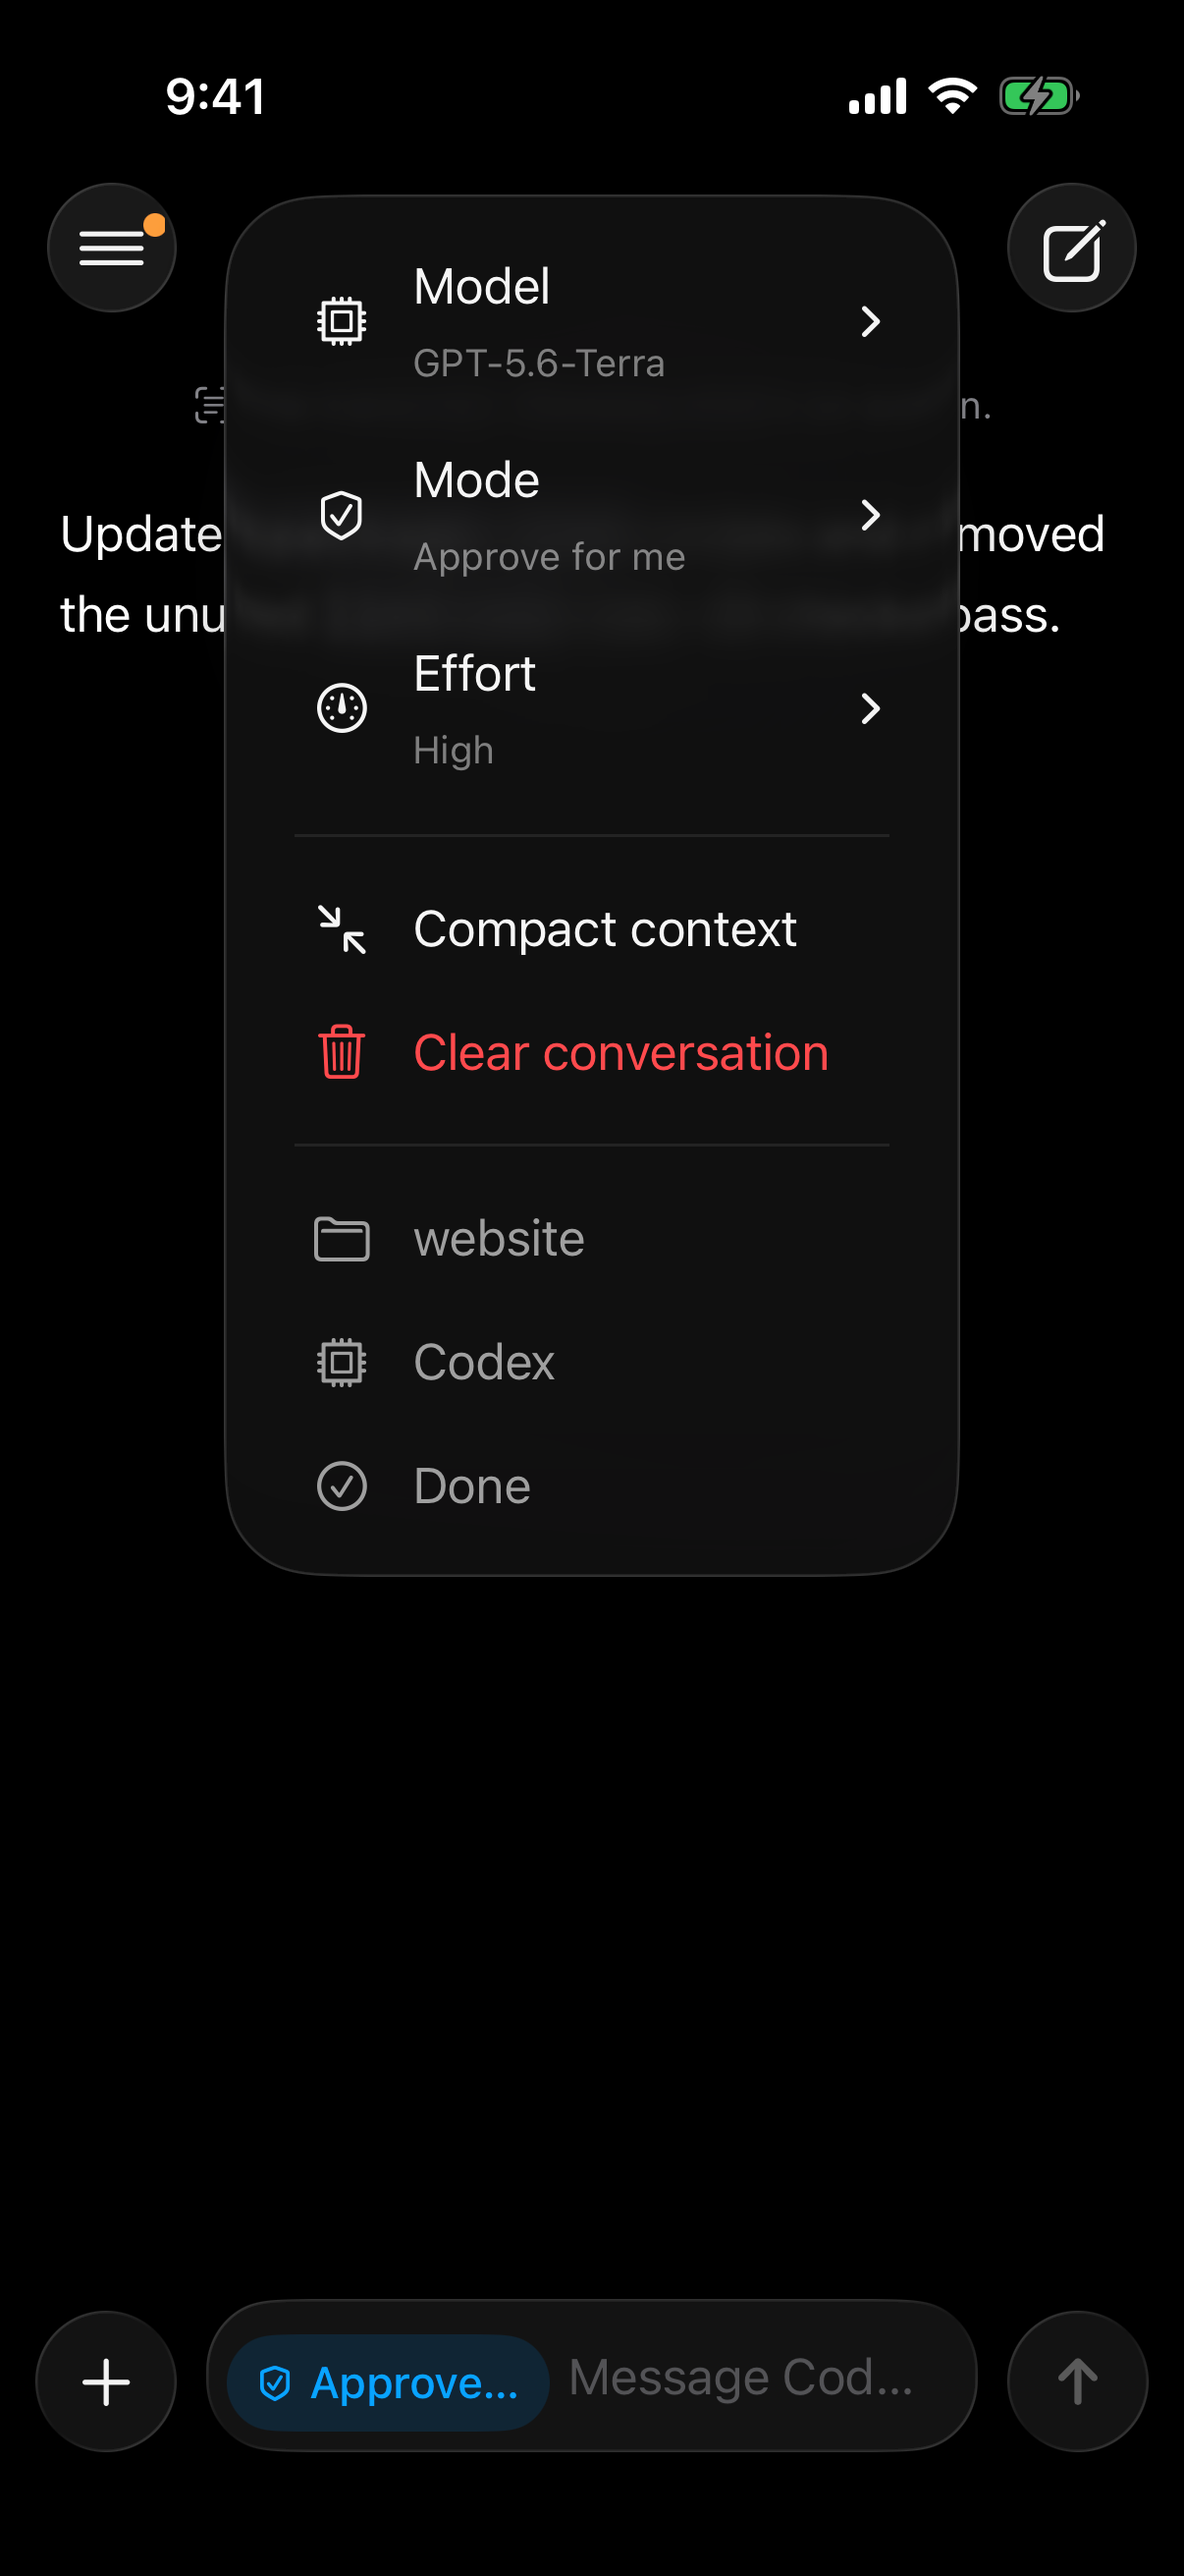
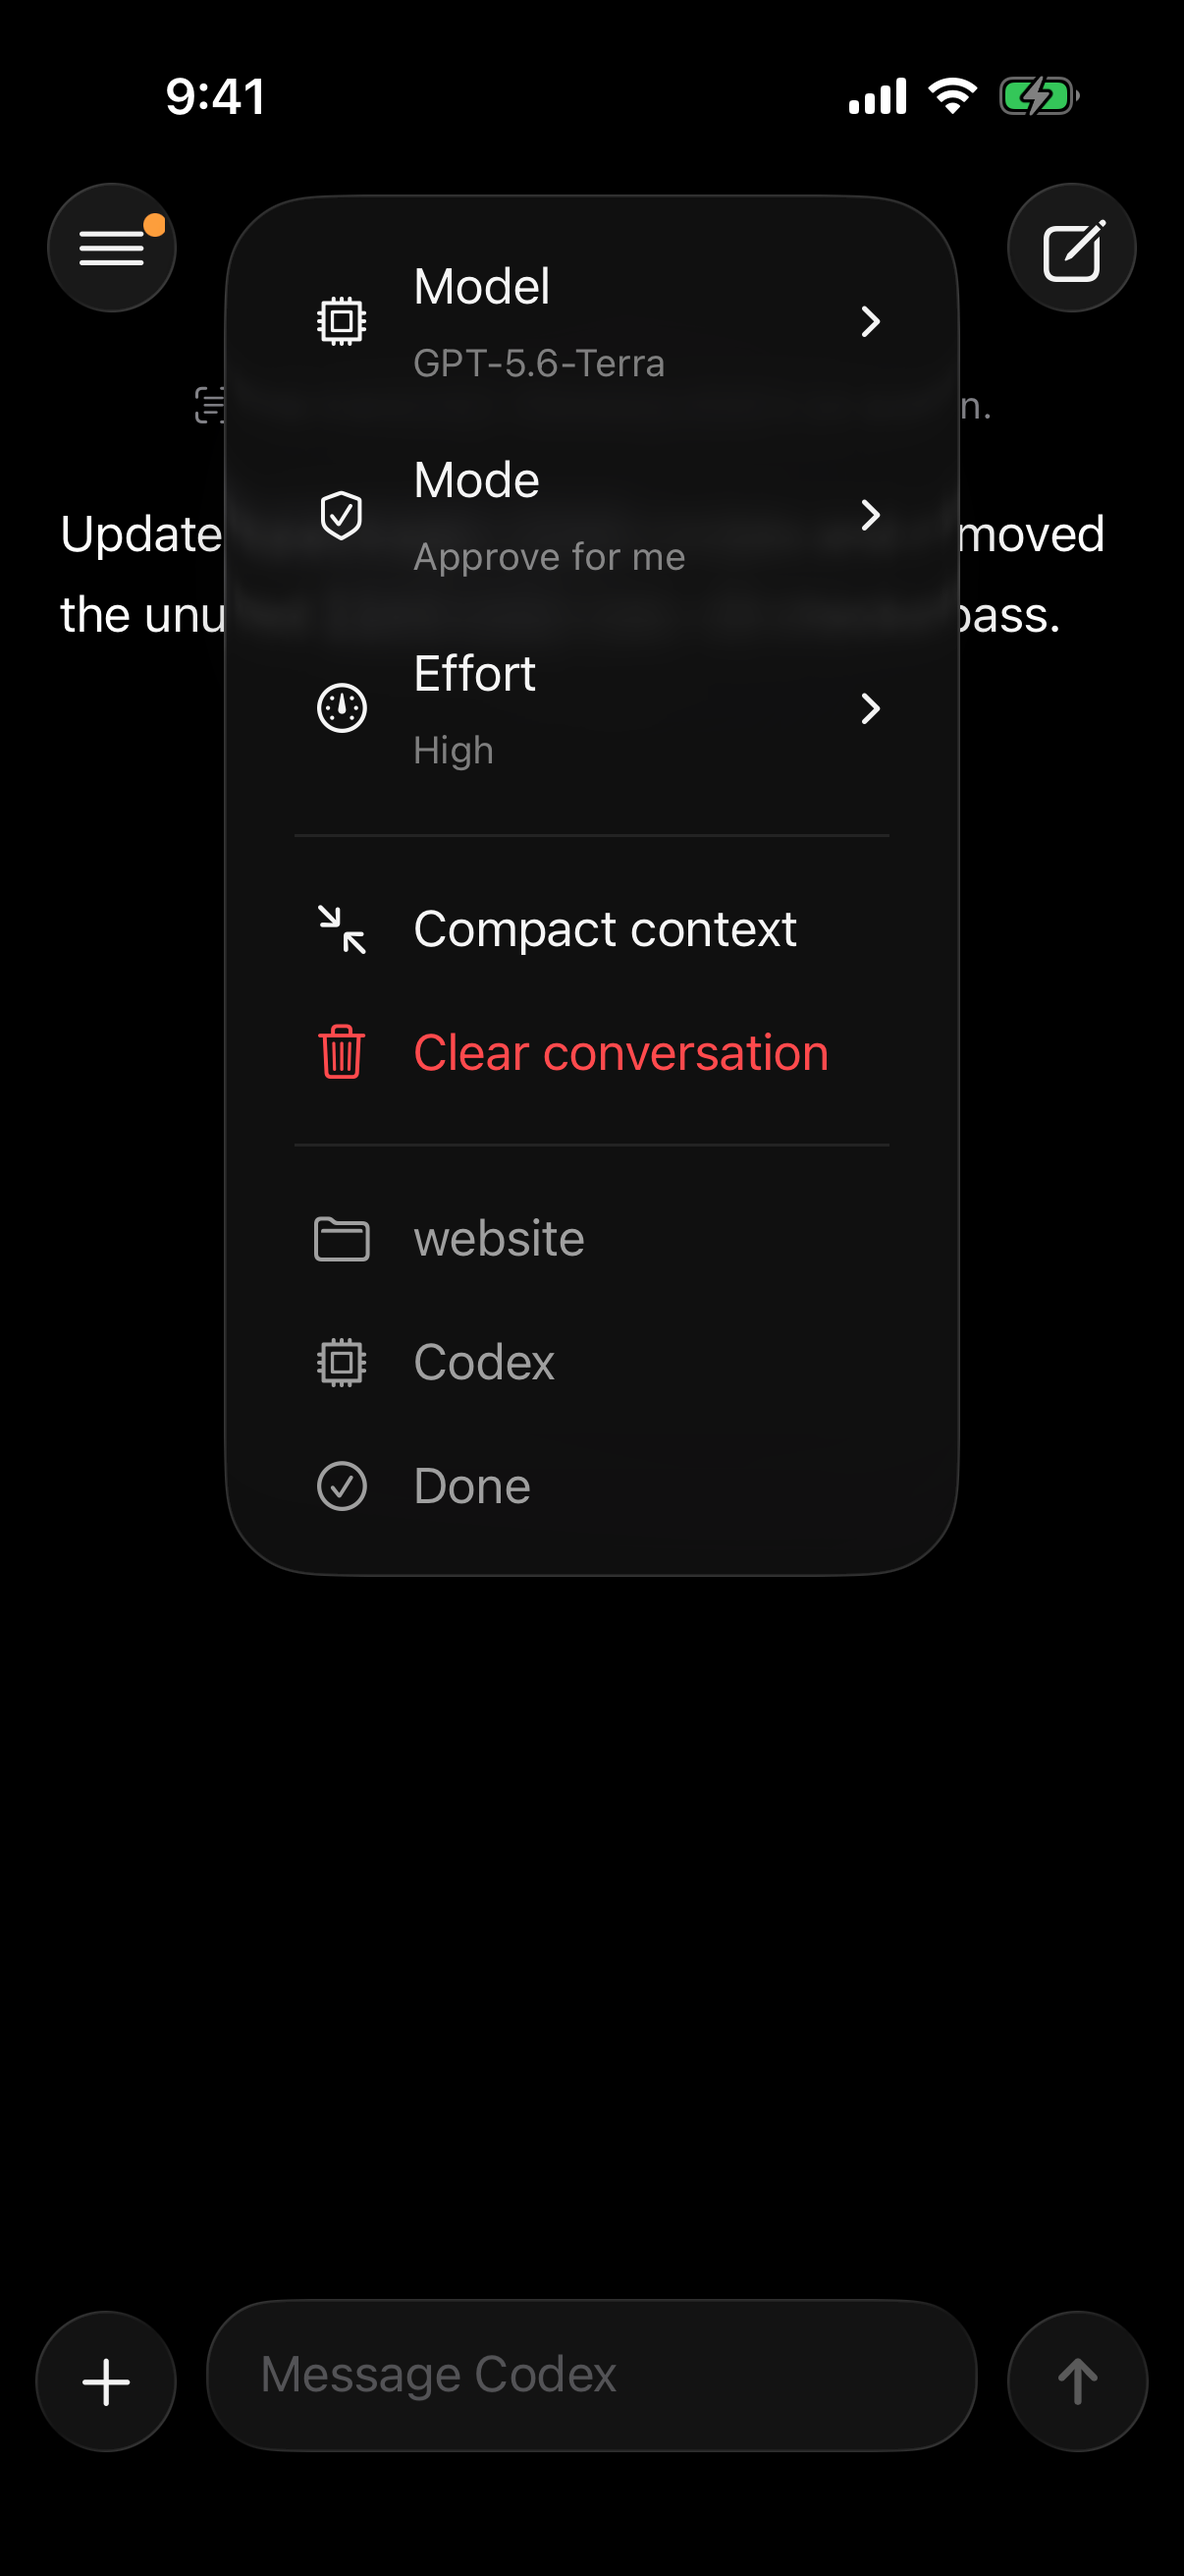
docs: screenshots without the mode chip, Lucide folders; report
Claude-Session: https://claude.ai/code/session_01Q4qo2QabVUAvi2YgczSwpD

Changed region(s): [[0.1841, 0.8959, 0.5216, 0.9577], [0.5829, 0.8959, 0.6443, 0.9268], [0.7056, 0.8959, 0.7363, 0.9268]]

diff --git a/docs/tasks/ios-report.md b/docs/tasks/ios-report.md
@@ -280,3 +280,35 @@
   - All pass: 54 unit tests, 12 mock UI tests and 9 live UI tests (Claude: stop, controls, free text, multiple questions, image, PDF; pi: model and effort; codex: model and effort, approval with transcript checks).
   - All three panes were left as found: `w14:p2` Opus/auto, `w14:p4` gpt-5.6-sol/high, `w14:p5` gpt-5.6-terra/high/ask.
 - Screenshot: `round3-live-codex-transcript.png` (codex chat with confirmed bubbles and tool rows).
+
+## Feedback round (chip, folder icons, codex cancel)
+
+1. **Mode chip removed.** The composer has no accessory slot any more. The permission mode shows only in the title pill's second line and its Mode ▸ menu. `ModeChip`, `showsModeChip` and `modeTint` are gone.
+   - Tests now go through the title menu and assert there's no `modeChip`:
+     - `MockUITests.testControls`: Plan, a refused Bypass, then back to Default, all via the menu.
+     - `Round3UITests.testCodexModelEffortAndMode`: the codex mode goes back to Ask via the menu.
+     - `LiveE2ETests.testControls`: asserts no chip in Plan.
+   - Screenshots: `controls-plan-chip.png` and `controls-chip-menu.png` are replaced by `controls-plan.png` and `controls-mode-menu.png`. The other controls, round-3 and live-controls screenshots were retaken.
+2. **Lucide folder icons.** `folder-closed` (collapsed) and `folder-open` (expanded) from lucide-static v1.48.0 are in the asset catalog as template vectors (Preserves Vector Data, template rendering), tinted `.secondary`.
+   - `stroke="currentColor"` became black so actool reads it reliably.
+   - Stroke width is 1.75 instead of 2. At the 20 pt size of the SF Symbol they replace, that's about 1.46 pt, matching SF's regular weight at `.body`.
+   - Sized with `@ScaledMetric(relativeTo: .body)`, so they follow Dynamic Type.
+   - Attribution is in `ios/THIRD_PARTY.md` (ISC).
+   - Round-2 sidebar screenshots were retaken in dark and light.
+3. **Codex "approval never cleared after No".**
+   - **Keys:** the app sends the option's keys exactly (`["esc"]`), and the tap lands on the right sheet button. That's confirmed with a debug run.
+   - **Timing:** sending Esc the instant `/approval` turns 200 clears codex in about 2 s, 3/3 via curl. It isn't a key-timing race.
+   - **Cause:** a stale sheet.
+     - `followUp` and `refreshApproval` compared the whole `Approval`, and codex's option keys are arrow moves relative to the cursor. Right after "Yes", the same dialog can be re-read with the cursor moved, so the old question looked new and the sheet came back.
+     - The test then sent the second prompt and tapped "No" on the stale sheet. Esc landed while codex was working on the second prompt, and the real second question was never answered.
+   - **Fix:**
+     - A question counts as new only if its text or step differs.
+     - The question just answered is ignored for 15 s, both in `followUp` and in `refreshApproval`.
+     - A unit test (`answeredQuestionDoesNotComeBack`) returns the same question with cursor-moved keys after an answer and checks the sheet stays closed. A different question still shows.
+   - **Test hardening:**
+     - The cancel half waits for the first question to clear.
+     - It taps the exact "No, and tell Codex what to do differently" button.
+     - It asserts the sheet's question (`approvalQuestion`) contains the second run's URL before tapping, so a stale sheet fails loudly.
+   - `testCodexApproval` passed 3/3 in a row on `w14:p5` (gpt-6-luna, Ask mode, no open question afterwards).
+
+**Runs:** 55 unit tests and 12 mock UI tests pass. The live tests (codex approval ×3, Claude controls, pi and codex model/effort) all pass. Panes left as found: `w14:p2` Sonnet 5/Auto (how it started), `w14:p4` gpt-5.6-sol/high, `w14:p5` gpt-6-luna/high/Ask. All on the iPhone 17 Pro simulator, because Xcode is still signed out for the device.
